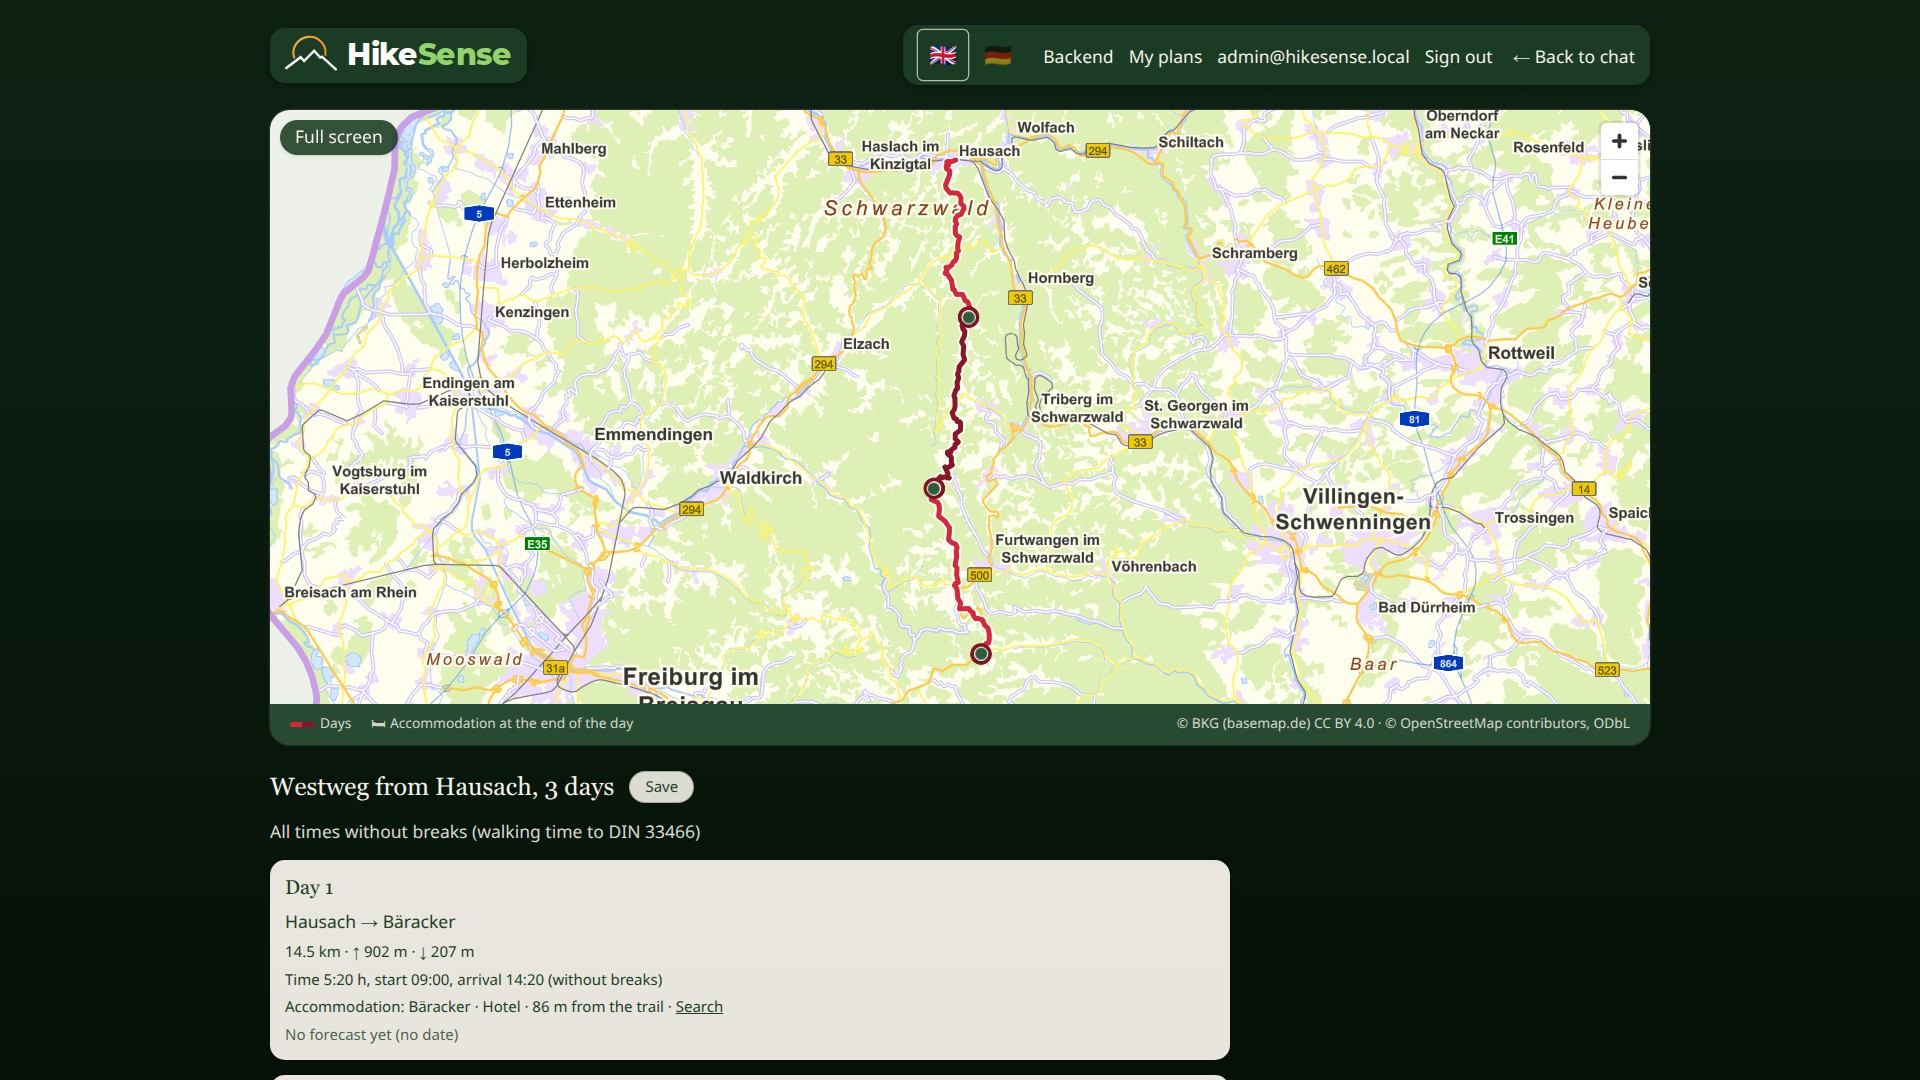
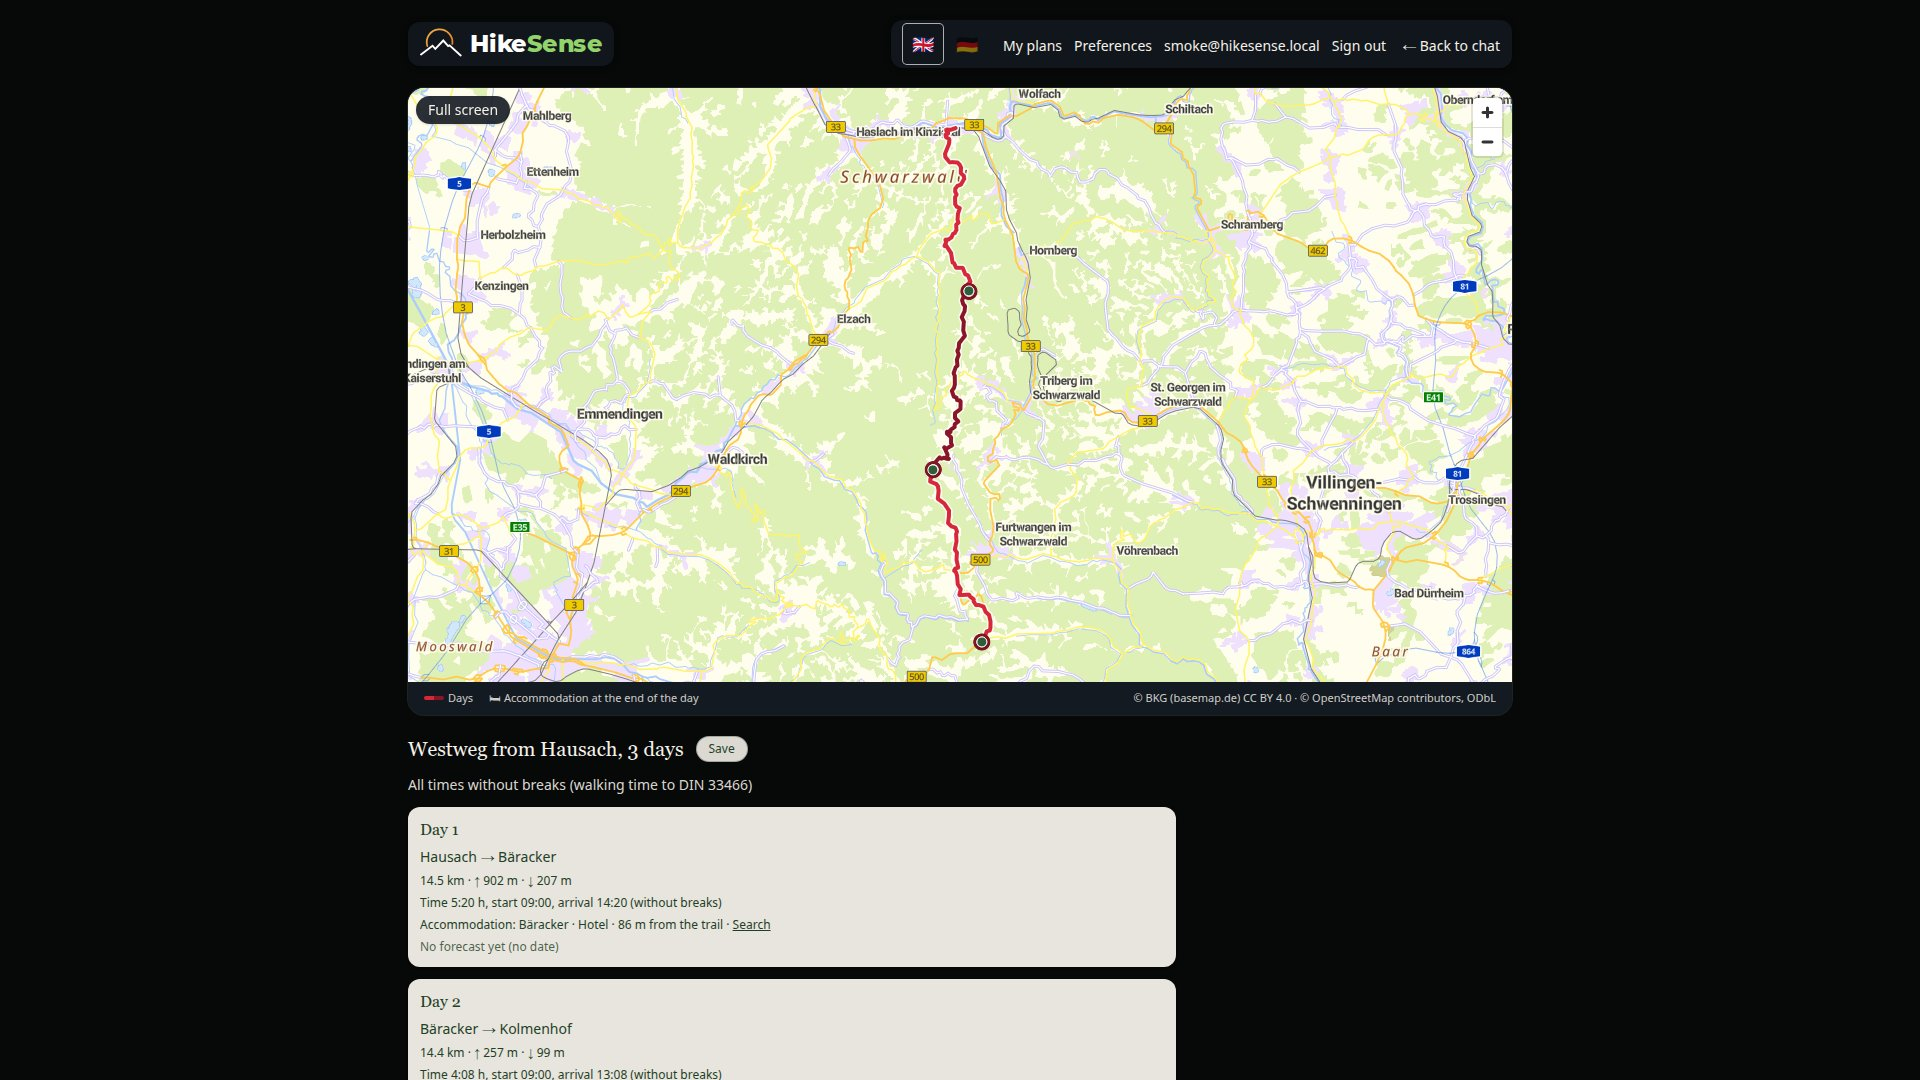
docs: alle Screenshots neu (aktuelle Optik, Stand 2026-11-05) und Aufnahme-Skript

diff --git a/scripts/showcase/shots.py b/scripts/showcase/shots.py
@@ -1,0 +1,161 @@
+"""Re-takes docs/showcase/01–12 against the local app (EN UI, real model).
+
+    python -m venv /tmp/pw && /tmp/pw/bin/pip install playwright
+    /tmp/pw/bin/python scripts/showcase/shots.py docs/showcase [01 02 …]
+
+Needs the local stack (make up), the test account from `make smoke-user` (password from .env) and
+guest chats left for today (10 per IP): about 12 chat turns, a few tenths of a cent. A saved plan
+used for "Unterwegs" is deleted again at the end.
+"""
+import asyncio, re, sys
+from datetime import datetime
+from pathlib import Path
+from playwright.async_api import async_playwright
+
+BASE = "http://localhost:3000"
+OUT = Path(sys.argv[1])
+ONLY = set(sys.argv[2:])
+env = dict(l.split("=", 1) for l in (Path(__file__).resolve().parents[2] / ".env").read_text().splitlines() if "=" in l and not l.startswith("#"))
+USER, PW = "smoke@hikesense.local", env["HIKESENSE_SMOKE_PASSWORD"].strip().strip('"')
+ON_DAY1 = {"latitude": 48.2511, "longitude": 8.1740, "accuracy": 15}
+
+
+def want(n):
+    return not ONLY or n in ONLY
+
+
+async def shot(page, name, **kw):
+    await page.screenshot(path=str(OUT / f"{name}.jpg"), type="jpeg", quality=85, **kw)
+    print("shot", name)
+
+
+async def done(page):
+    await page.wait_for_timeout(1200)
+    await page.get_by_role("button", name="Stop").wait_for(state="detached", timeout=240_000)
+    await page.wait_for_timeout(2500)
+
+
+async def send(page, text):
+    await page.get_by_label("Message", exact=True).fill(text)
+    await page.get_by_role("button", name="Send").click()
+    await done(page)
+
+
+async def sign_in(page):
+    await page.goto(BASE + "/anmelden")
+    await page.get_by_label("E-mail", exact=True).fill(USER)
+    await page.get_by_label("Password").fill(PW)
+    await page.get_by_role("button", name="Sign in", exact=True).click()
+    await page.wait_for_url(re.compile(r"/$"), timeout=20_000)
+
+
+async def main():
+    async with async_playwright() as p:
+        b = await p.chromium.launch()
+        desk = await b.new_context(viewport={"width": 1920, "height": 1080}, locale="en-GB", timezone_id="Europe/Berlin")
+        page = await desk.new_page()
+        if want("01") or want("02") or want("07") or want("08"):
+            await page.goto(BASE + "/")
+            await page.wait_for_timeout(3000)
+            if want("01"):
+                await shot(page, "01-startseite")
+            await send(page, "A round walk near Titisee, about 10 km")
+            await send(page, "Under 300 m ascent, please")
+            await shot(page, "02-tagestouren")
+            await page.locator("article a[href^='/t/']").first.click()
+            await page.wait_for_load_state("networkidle")
+            await page.wait_for_timeout(5000)
+            await shot(page, "08-routenkarte")
+            photos = page.get_by_role("heading", name=re.compile("Photos", re.I)).first
+            if await photos.count():
+                await photos.scroll_into_view_if_needed()
+                await page.evaluate("window.scrollBy(0, -120)")
+            else:
+                await page.evaluate("window.scrollBy(0, 900)")
+            await page.wait_for_timeout(2500)
+            await shot(page, "07-routenseite-fotos")
+        if want("03") or want("04"):
+            await page.goto(BASE + "/")
+            await page.get_by_role("button", name=re.compile("New search")).click() if await page.get_by_role("button", name=re.compile("New search")).count() else None
+            await page.wait_for_timeout(1500)
+            await send(page, "Round walk, under 200 m ascent, over 15 km, Feldberg")
+            await page.get_by_role("button", name=re.compile(r"^Feldberg \(Schwarzwald\)")).first.click()
+            await done(page)
+            await shot(page, "03-unerfuellbar-chat")
+            await page.locator("[data-results-scroll]").evaluate("el => el.scrollTo(0, 0)")
+            await shot(page, "04-unerfuellbar-ausweichtouren")
+        if want("09"):
+            fresh = await (await b.new_context(viewport={"width": 1920, "height": 1080}, locale="en-GB", timezone_id="Europe/Berlin")).new_page()
+            await fresh.goto(BASE + "/")
+            await fresh.wait_for_timeout(2500)
+            await send(fresh, "How did the Westweg come about?")
+            await fresh.locator("summary", has_text="sources").last.click()
+            await fresh.wait_for_timeout(600)
+            await fresh.locator("[data-chat-scroll]").evaluate("el => el.scrollTo(0, el.scrollHeight)")
+            await fresh.wait_for_timeout(1200)
+            await shot(fresh, "09-wissensfrage-quellen")
+        plan_id = None
+        if want("05") or want("06") or want("10") or want("11"):
+            await sign_in(page)
+            nb = page.get_by_role("button", name=re.compile("New search"))
+            if await nb.count():
+                await nb.click()
+            await page.wait_for_timeout(1500)
+            await send(page, "3 days on the Westweg from Hausach")
+            await shot(page, "05-mehrtagesplan")
+            await page.get_by_role("link", name=re.compile("View plan with map")).click()
+            await page.wait_for_load_state("networkidle")
+            await page.wait_for_timeout(6000)
+            await shot(page, "06-tagesabschnitte-karte")
+            await page.get_by_role("button", name=re.compile("^Save")).first.click()
+            await page.wait_for_timeout(2500)
+            await page.goto(BASE + "/meine-plaene")
+            await page.wait_for_timeout(2500)
+            hrefs = await page.eval_on_selector_all("li a[href^='/plan?id=']", "els => els.map(a => a.getAttribute('href'))")
+            plan_id = hrefs[0].split("id=")[1] if hrefs else None
+            print("plan", plan_id)
+        state = await desk.storage_state()
+        phone = await b.new_context(
+            viewport={"width": 390, "height": 844}, device_scale_factor=2, is_mobile=True, has_touch=True,
+            locale="en-GB", timezone_id="Europe/Berlin", storage_state=state,
+            geolocation=ON_DAY1, permissions=["geolocation"],
+        )
+        ph = await phone.new_page()
+        if want("12"):
+            await ph.context.clear_cookies()
+            await ph.goto(BASE + "/")
+            await ph.evaluate("() => { localStorage.clear(); sessionStorage.clear(); }")
+            await ph.goto(BASE + "/")
+            await ph.wait_for_timeout(3500)
+            await shot(ph, "12-startseite-handy")
+        if plan_id and (want("10") or want("11")):
+            await ph.context.add_cookies([])
+            ph2 = await (await b.new_context(
+                viewport={"width": 390, "height": 844}, device_scale_factor=2, is_mobile=True, has_touch=True,
+                locale="en-GB", timezone_id="Europe/Berlin", storage_state=state,
+                geolocation=ON_DAY1, permissions=["geolocation"],
+            )).new_page()
+            await ph2.clock.set_fixed_time(datetime(2026, 11, 6, 10, 0))
+            await ph2.goto(f"{BASE}/unterwegs?plan={plan_id}&day=1")
+            await ph2.get_by_role("button", name="Start", exact=True).click()
+            await ph2.get_by_text(re.compile("km to go")).wait_for(timeout=30_000)
+            await ph2.wait_for_timeout(4000)
+            await shot(ph2, "10-unterwegs-handy", clip={"x": 0, "y": 0, "width": 390, "height": 410})
+            await ph2.get_by_text("Map", exact=False).last.click()
+            await ph2.wait_for_timeout(5000)
+            await ph2.evaluate("window.scrollBy(0, 330)")
+            await ph2.wait_for_timeout(1500)
+            await shot(ph2, "11-unterwegs-karte-handy")
+            # clean up: the saved plan of this run
+            await page.goto(BASE + "/meine-plaene")
+            await page.wait_for_timeout(2500)
+            for _ in range(5):  # this run's plan and any left over from an aborted run
+                li = page.locator("li", has=page.locator("a[href^='/plan?id=']"))
+                if not await li.count():
+                    break
+                await li.first.get_by_role("button").first.click()
+                await page.wait_for_timeout(1500)
+                print("deleted a plan")
+        await b.close()
+
+asyncio.run(main())

diff --git a/docs/details-de.md b/docs/details-de.md
@@ -10,17 +10,15 @@ Ein Wanderplaner für Schwarzwald, Bodensee (mit Schweizer und österreichischem
 |---|---|---|
 | ![Ausweichtouren für „Rundweg, unter 200 Hm, über 15 km, Feldberg“](showcase/04-unerfuellbar-ausweichtouren.jpg) | ![Plan „3 Tage Westweg ab Hausach“ mit Unterkünften](showcase/05-mehrtagesplan.jpg) | ![Restkilometer und Ankunft auf Tag 1](showcase/10-unterwegs-handy.jpg) |
 
-Alle Screenshots stammen aus der lokal laufenden App vom 2026-10-31 mit dem echten Modell (`openai/gpt-4o-mini`). Die Position für „Unterwegs“ ist simuliert: ein Punkt auf Tag 1 des Plans, die Uhr des Browsers steht auf 10:00. Die Bilder 02, 10, 11 und 12 sind nach den Fixes vom selben Tag neu aufgenommen.
+Alle Screenshots stammen aus der lokal laufenden App vom 2026-11-05 (englische Oberfläche) mit dem echten Modell (`openai/gpt-4o-mini`). Die Position für „Unterwegs“ ist simuliert: ein Punkt 6 km nach Hausach auf Tag 1 des Plans, die Uhr des Browsers steht auf 10:00. Neu aufnehmen: `scripts/showcase/shots.py` (Playwright; braucht `make smoke-user`, schreibt die Bilder in den angegebenen Ordner).
 
 <details>
 <summary>Alle Screenshots</summary>
 
-Die Bilder zeigen noch die Optik vor dem Umbau vom 2026-11-01 (Fotohintergrund, eigene Vorschlagsseite). Seitdem ist die App dunkelgrün, die Vorschläge stehen als Kacheln direkt neben dem Chat, und Tour- und Planseite zeigen die Karte eingebettet. Neue Screenshots folgen mit dem neuen Video.
-
-1. [Startseite](showcase/01-startseite.jpg). Die Screenshots 1–8 sind vom 2026-11-03 (HikeSense, englische Oberfläche), 9–12 noch mit dem alten Namen.
+1. [Startseite](showcase/01-startseite.jpg)
 2. [Tagestouren zu „A round walk near Titisee, about 10 km“ und „Under 300 m ascent, please“](showcase/02-tagestouren.jpg): Karten mit ✓ je Bedingung, dazu eine gelbe Karte „Near miss“ mit der einen knappen Abweichung (11,6 statt höchstens 11,5 km).
-3. [Rückfrage „Feldberg“ und ehrlich benannte Unerfüllbarkeit im Chat](showcase/03-unerfuellbar-chat.jpg)
-4. [Ausweichtouren mit der einen verletzten Bedingung](showcase/04-unerfuellbar-ausweichtouren.jpg)
+3. [Rückfrage „Feldberg“: Dorf, Gipfel oder Gemeinde?](showcase/03-unerfuellbar-chat.jpg)
+4. [Ehrlich benannte Unerfüllbarkeit und Ausweichtouren mit der einen verletzten Bedingung](showcase/04-unerfuellbar-ausweichtouren.jpg)
 5. [Mehrtagesplan mit Unterkünften und Ankunftszeiten](showcase/05-mehrtagesplan.jpg)
 6. [Karte mit Tagesabschnitten](showcase/06-tagesabschnitte-karte.jpg)
 7. [Routenseite mit Fotos, Lizenzen und Gruppen in der Nähe](showcase/07-routenseite-fotos.jpg)
